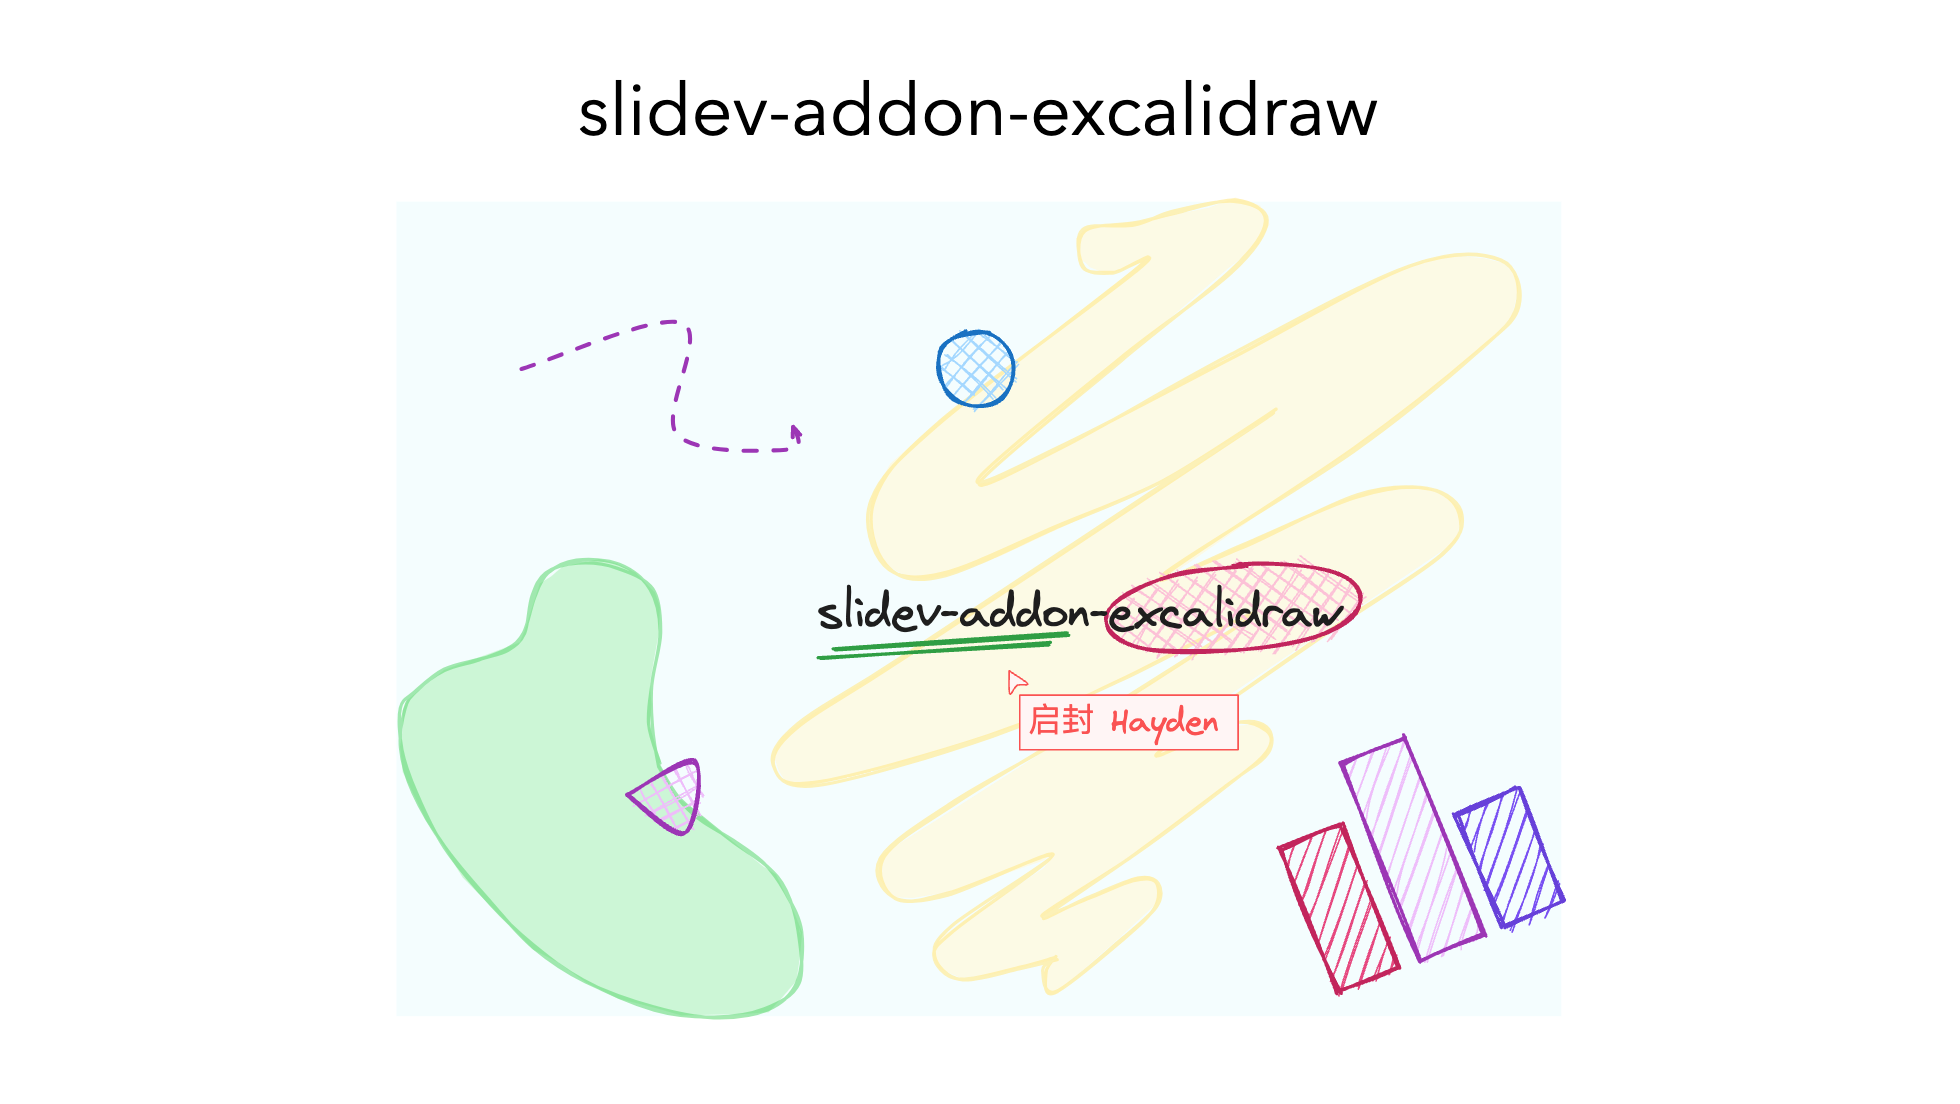
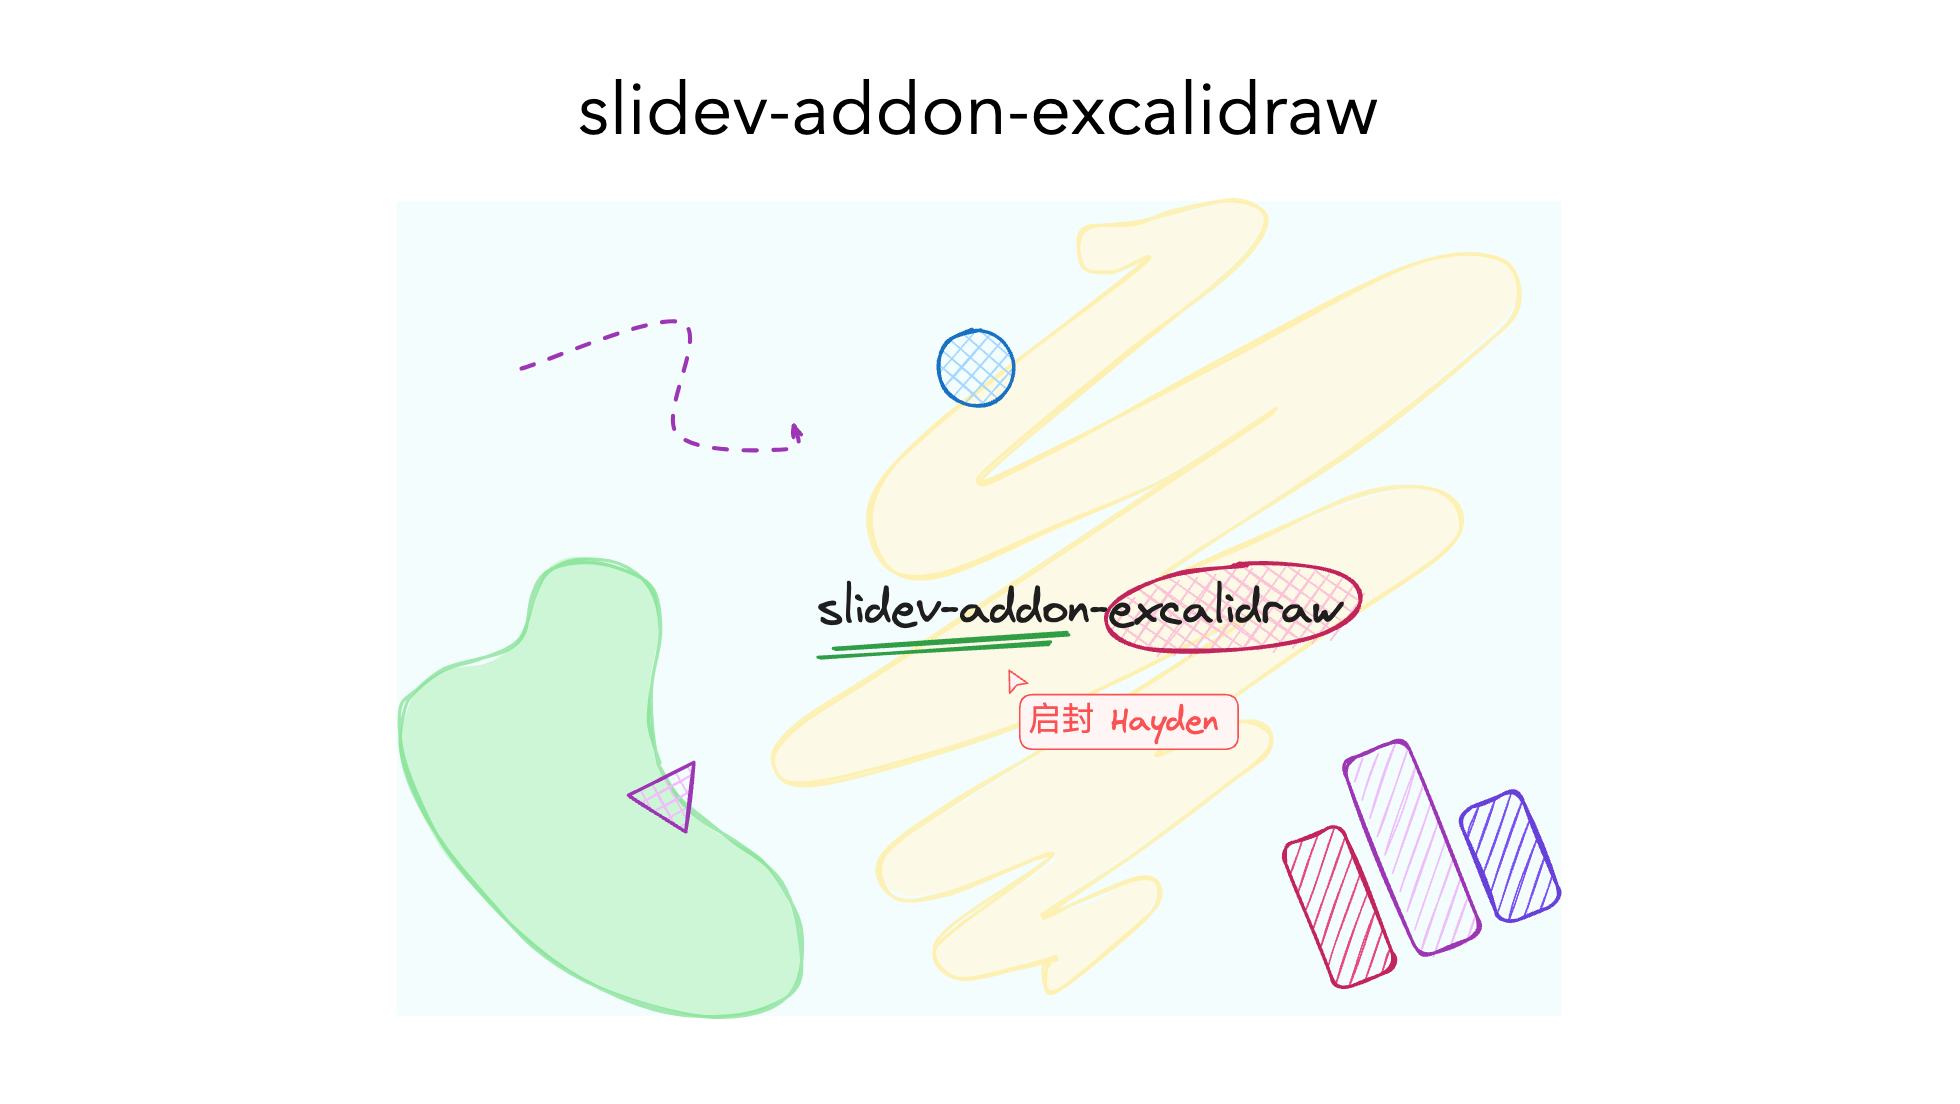
chore: :wrench: use @excalidraw/excalidraw to export svg

diff --git a/components/Excalidraw.vue b/components/Excalidraw.vue
@@ -1,11 +1,13 @@
 <template>
+  <p v-if="loading">Loading Excalidraw...</p>
   <div :class="$attrs.class" v-if="svg" v-html="svg"></div>
 </template>
 
 <script setup lang="ts">
-import { exportToSvg } from '@excalidraw/utils'
 import { onMounted, ref, useAttrs } from 'vue'
 const attrs = useAttrs()
+const loading = ref(false)
+const svg = ref<string | null>(null)
 
 interface AppState {
   exportWithDarkMode: boolean;
@@ -21,20 +23,27 @@ const props = withDefaults(defineProps<{
   background: false,
 })
 
-const svg = ref<string | null>(null)
 
 onMounted(() => {
-  loadJsonAndExport(props)
+  loading.value = true
+  loadScriptsSimultaneously([
+    'https://cdn.jsdelivr.net/npm/react@18.2.0/umd/react.production.min.js',
+    'https://cdn.jsdelivr.net/npm/react-dom@18.2.0/umd/react-dom.production.min.js',
+    'https://cdn.jsdelivr.net/npm/@excalidraw/excalidraw/dist/excalidraw.production.min.js',
+  ]).then(() => {
+    loadJsonAndExport(props)
+  }).finally(() => {
+    loading.value = false
+  })
 })
+
 
 const loadJsonAndExport = async ({ drawFilePath: path, darkMode = false, background = false }: { drawFilePath: string; darkMode: boolean; background: boolean }) => {
   try {
-    // Dynamically import the JSON file using import()
-    // const { default: json } = await import(path)
     const url = new URL(path, window.location.origin + import.meta.env.BASE_URL).href
     const json = await (await fetch(url)).json()
 
-    const svgElement = await exportToSvg({
+    const svgElement = await ExcalidrawLib.exportToSvg({
       ...json,
       appState: {
         ...(json.appState as any),
@@ -49,5 +58,24 @@ const loadJsonAndExport = async ({ drawFilePath: path, darkMode = false, backgro
   } catch (error) {
     console.error('Failed to load JSON or export to SVG', error)
   }
+}
+
+function loadScript(src) {
+  return new Promise((resolve, reject) => {
+    // 如果该 src 的 script 已经加载过,直接返回
+    if (document.querySelector(`script[src="${src}"]`)) {
+      resolve('success')
+      return
+    }
+    const script = document.createElement('script')
+    script.src = src
+    script.onload = resolve
+    script.onerror = reject
+    document.head.appendChild(script)
+  })
+}
+function loadScriptsSimultaneously(srcList: string[]) {
+  const promises = srcList.map(src => loadScript(src))
+  return Promise.all(promises)
 }
 </script>
